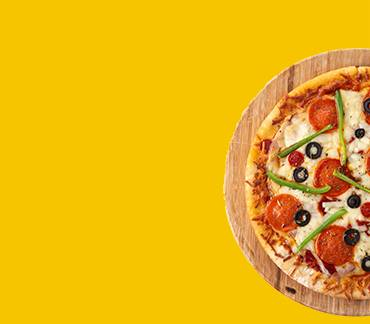
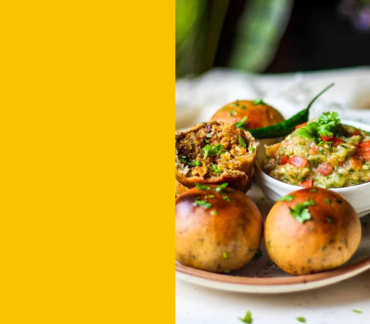
litti chokh added

diff --git a/index.html b/index.html
@@ -113,7 +113,7 @@
 						<div class="slider-content-btn">
 							<a class="active" href="menu.html">Our Menu</a>
 						</div>
-						<div class="slider-content-btn">
+						<div class="slider-content-btn">	
 							<a href="https://vyaparapp.in/store/rollercoastercafe1">Order Now</a>
 						</div>
 						<div class="slider-title">
@@ -369,6 +369,16 @@
 				</div>
 			</div>
 			<div class="col-lg-4 col-md-6 p-0">
+				<div class="service-box three">
+					<div class="secvice-box-content">
+						<h3>Premium Litti chokha</h3>
+						<p style="color: white;">Savor the sublime flavors of Litti Chokha - each bite a masterpiece, meticulously prepared for your culinary delight.</p>
+						<div class="service-dollar-rate">
+						</div>		
+					</div>
+				</div>
+			</div>
+			<!-- <div class="col-lg-4 col-md-6 p-0">
 				<div class="service-style-two">
 					<div class="service-style-content">
 						<h3>The  Best Explore
@@ -380,7 +390,7 @@
 						<a href="gallery.html">VIEW MORE</a>
 					</div>
 				</div>
-			</div>
+			</div> -->
 			<div class="col-lg-8 col-md-12 p-0">
 				<div class="service-style-two-inner">
 					<div class="service-inner-content text-center">

diff --git a/style.css b/style.css
@@ -571,6 +571,7 @@ a.handbag:before {
     background: url(assets/images/service-thumb-3.jpg);
     background-size: cover;
     background-repeat: no-repeat;
+    color: white;
     background-position: center;
 }
 .secvice-box-content h3 {
